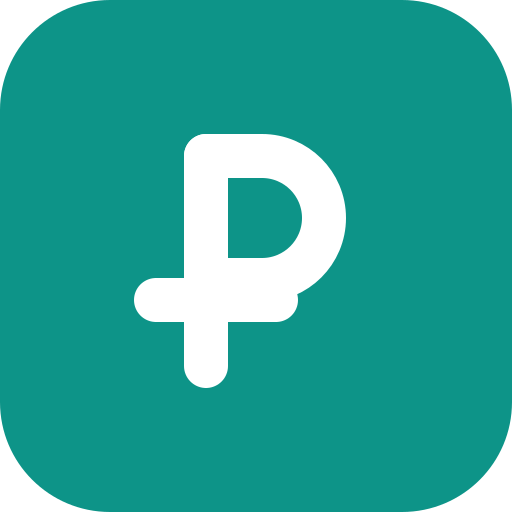
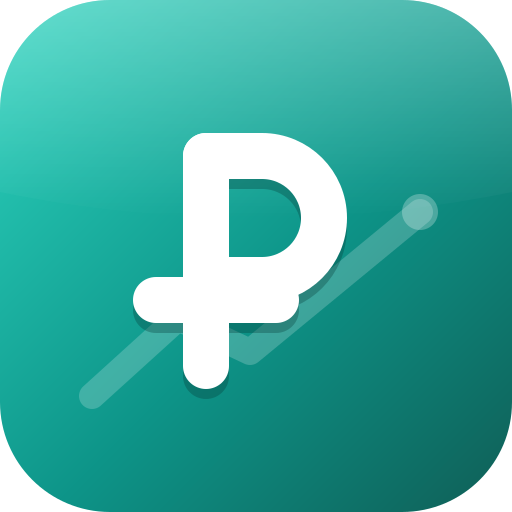
Новый фавикон: градиент + блик + ₽ на восходящем графике
- icon.svg: teal-градиент, стеклянный блик, тень у ₽, линия сходимости с точкой
- gen-icons.mjs: + сборка мультиразмерного favicon.ico (PNG-in-ICO 16/32/48) без зависимостей
- заменён дефолтный vercel favicon.ico; в layout добавлен svg-фавикон (чёткий на любом DPI)
- перегенерированы PWA/apple-иконки из нового мастера

diff --git a/src/app/layout.tsx b/src/app/layout.tsx
@@ -43,7 +43,8 @@ export default function RootLayout({
         />
         <link rel="manifest" href="manifest.webmanifest" />
         <link rel="apple-touch-icon" href="apple-touch-icon.png" />
-        <link rel="icon" href="icon-192.png" type="image/png" />
+        <link rel="icon" href="icon.svg" type="image/svg+xml" />
+        <link rel="icon" href="icon-192.png" type="image/png" sizes="192x192" />
         <meta name="theme-color" content="#0d9488" />
         <meta name="mobile-web-app-capable" content="yes" />
         <meta name="apple-mobile-web-app-capable" content="yes" />
